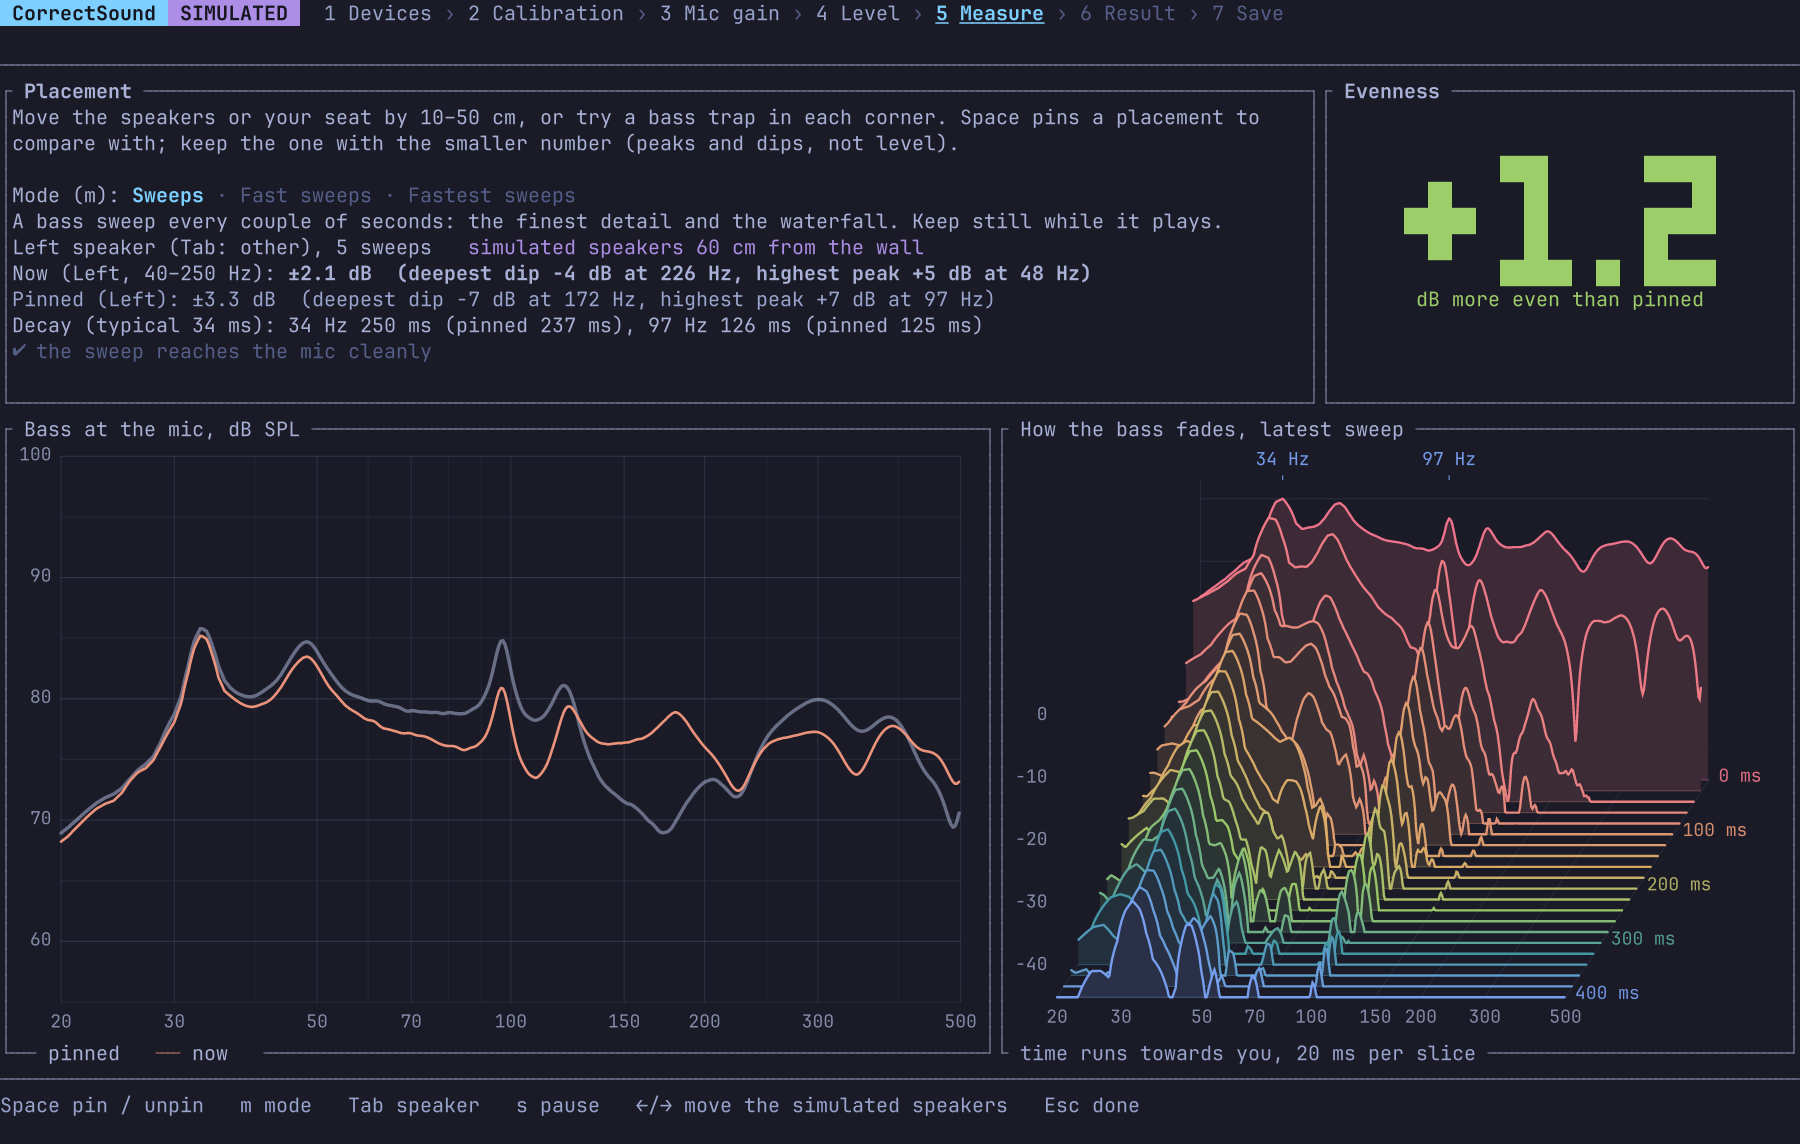
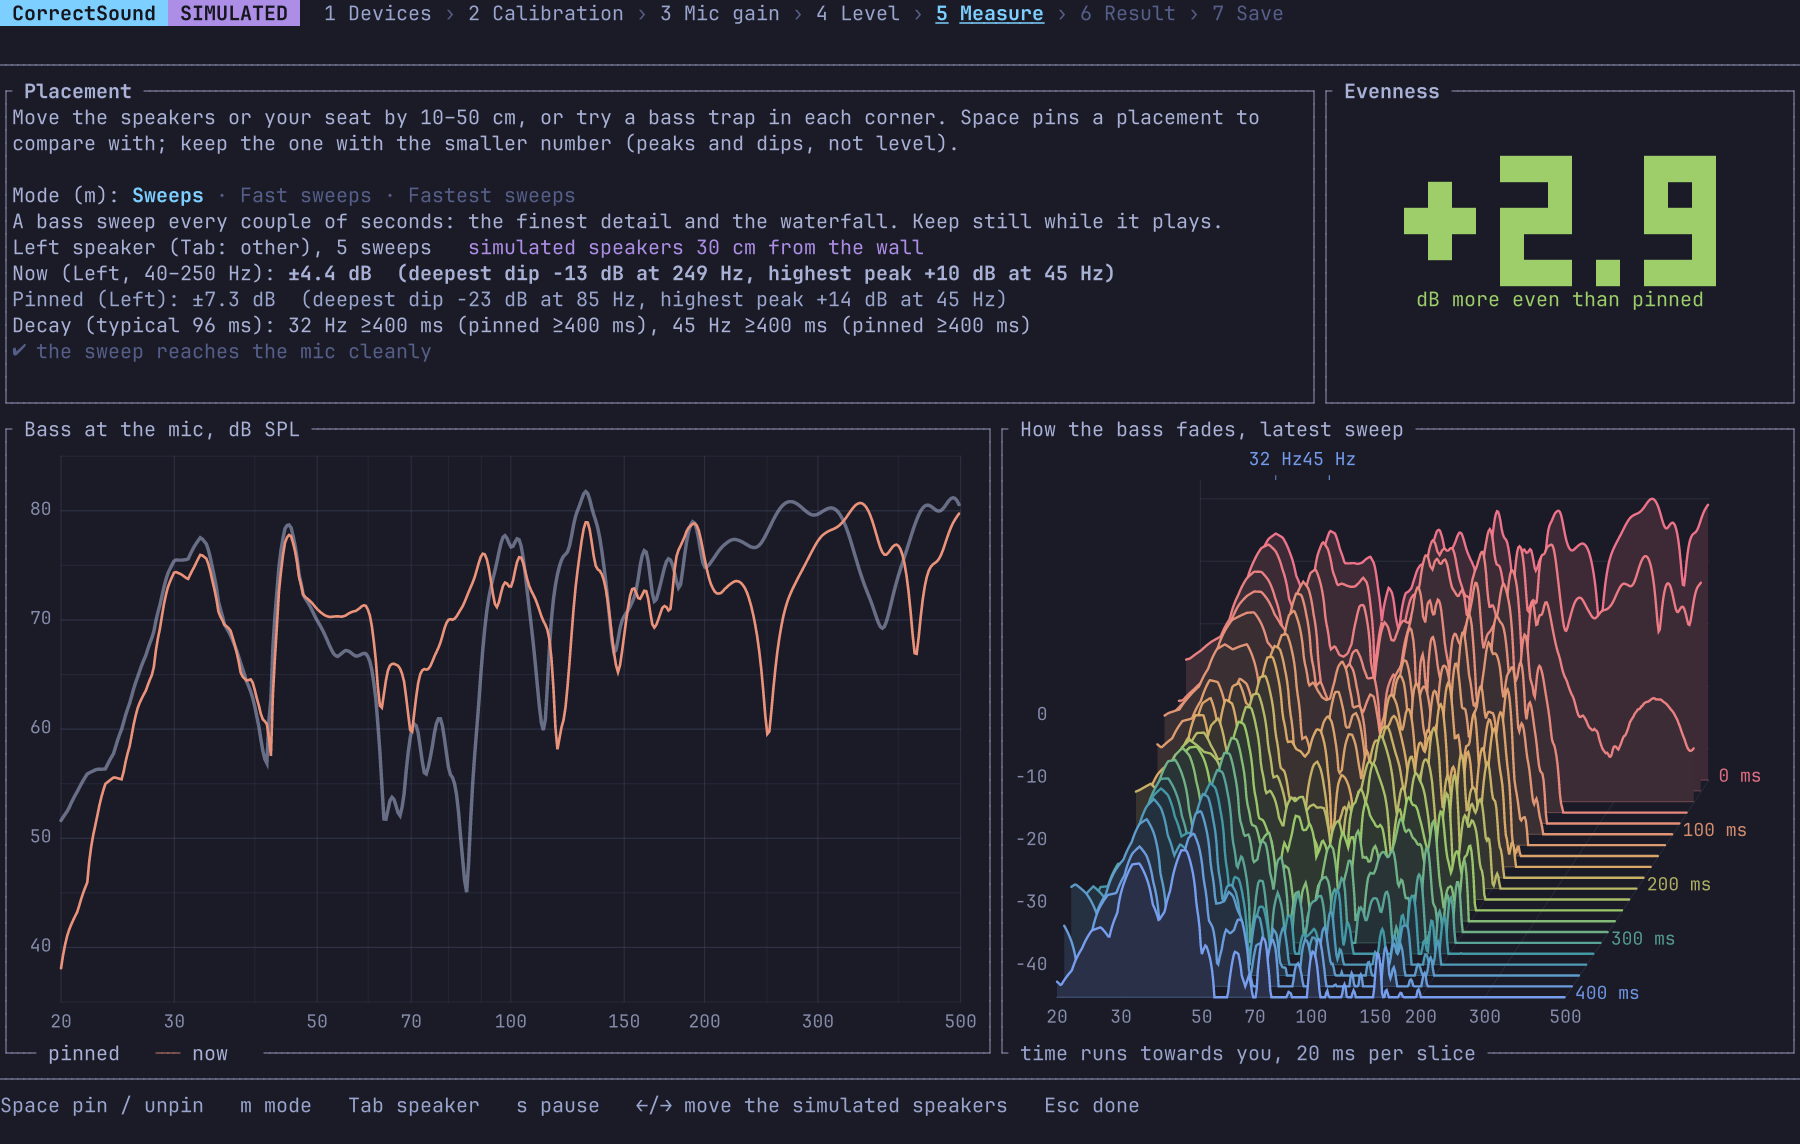
--simulate in the living room; verify at the first mic position
The simulator now runs in a room of known size by default (5.64 x 5.24 m,
the speakers in its right-hand corner), and the website's screenshots come
from it. Its placement story is the room's own: the speakers pinned 80 cm
from the wall behind them, where the reflection cancels 85 Hz by 23 dB,
then moved to 30 cm, 2.9 dB more even. Captions and image descriptions say
what the new screenshots show.

Verification compared one mic position with the average of all of them,
which in a real room differs by about a dB and flagged spots that had not
changed. It now asks for the mic back at the first position and compares
with the EQ's prediction for that spot: 0.2 dB RMS in the simulator.

The fastest sweeps read a long-ringing room's narrowest resonances in
2.9 Hz steps, about 1.5 dB off a full sweep; the test now judges them
against their own accuracy. IDEAS.md: close pairs of standing waves
measure as ringing too long.

diff --git a/docs/index.html b/docs/index.html
@@ -451,7 +451,7 @@ footer { border-top: 1px solid var(--line); padding: 40px 0 60px; color: var(--m
           <h3>Level</h3>
           <p>Keep quiet for a few seconds while CorrectSound listens to your room. You see the background noise in the bass, the mids and the highs, live, and the level the measurement needs to stay 30 dB above it in every octave. Traffic and ventilation rumble in the bass, so that is usually what decides. A quiet room is measured at a comfortable 60 dB; a noisy one asks for up to 80, or for a quieter moment. Then press Enter: pink noise plays from one speaker and you turn the amplifier until the meter shows that level. Louder is fine, up to a comfortable 85 dB: the sweeps only gain margin. Above 95 dB it stops by itself.</p>
         </div>
-        <figure class="shot zoom"><img loading="lazy" src="img/4a-listening.png" alt="Listening to the room: background noise in bass, mids and highs, and a suggested measurement level of 68 dB SPL"></figure>
+        <figure class="shot zoom"><img loading="lazy" src="img/4a-listening.png" alt="Listening to the room: background noise in bass, mids and highs, and a suggested measurement level of 70 dB SPL"></figure>
       </div>
       <div class="step">
         <div class="text">
@@ -473,9 +473,9 @@ footer { border-top: 1px solid var(--line); padding: 40px 0 60px; color: var(--m
         <div class="text">
           <div class="num">7</div>
           <h3>Save, apply, verify</h3>
-          <p><kbd>a</kbd> backs up your EasyEffects settings, installs the preset as <code>CoSo-001-DDMMYYYY</code>, loads it and makes it load automatically for that output. <kbd>v</kbd> plays the sweeps again, this time through EasyEffects, and compares the result with the prediction: the purple line should sit on the blue one.</p>
+          <p><kbd>a</kbd> backs up your EasyEffects settings, installs the preset as <code>CoSo-001-DDMMYYYY</code>, loads it and makes it load automatically for that output. <kbd>v</kbd> plays the sweeps again, this time through EasyEffects, and compares the result with the prediction: the purple line should sit on the blue one. If you measured several mic positions, put the mic back at the first one: the comparison is made for that spot.</p>
         </div>
-        <figure class="shot zoom"><img loading="lazy" src="img/7-saved-verified.png" alt="Save screen showing the preset loaded and the verification matching within 0.1 dB"></figure>
+        <figure class="shot zoom"><img loading="lazy" src="img/7-saved-verified.png" alt="Save screen showing the preset loaded and the verification matching the prediction within 0.2 dB"></figure>
       </div>
     </div>
   </div>
@@ -565,11 +565,11 @@ footer { border-top: 1px solid var(--line); padding: 40px 0 60px; color: var(--m
         </div>
         <div>
           <figure class="shot zoom"><img loading="lazy" src="img/5b-placement.png" alt="Placement screen in sweeps mode: the bass at two speaker positions, and a waterfall of how the bass fades"></figure>
-          <figcaption>Sweeps mode, on the simulator. The simulated speakers were pinned 40 cm from the wall behind them (dashed): its reflection cancels a band around 170 Hz. Moved to 60 cm, the dip shrinks and the score improves by 1.1 dB. No equalizer can do that. The waterfall shows how the latest sweep's bass fades.</figcaption>
+          <figcaption>Sweeps mode, in the simulator's living room (5.64 × 5.24 m, like the room CorrectSound was first tried in). Pinned (grey) with the speakers 80 cm from the wall behind them: the reflection off that wall cancels a band around 85 Hz, 23 dB deep. Moved to 30 cm, the dip is gone and the bass is 2.9 dB more even. No equalizer can do that. The waterfall shows how the latest sweep's bass fades: the 32 and 45 Hz standing waves ring longest.</figcaption>
           <figure class="shot zoom" style="margin-top:22px"><img loading="lazy" src="img/5c-fastest.png" alt="Placement screen in fastest-sweeps mode: the bass from a short looping sweep, against the pinned sweep"></figure>
-          <figcaption>Fastest sweeps, same room: a third-of-a-second sweep in a loop, the curve updated ten times a second. In the simulator it matches the single sweep at the same position within 0.2 dB.</figcaption>
-          <figure class="shot zoom" style="margin-top:22px"><img loading="lazy" src="img/5d-fast.png" alt="Placement screen in fast-sweeps mode: a worse placement, and a big number saying it is less even than pinned"></figure>
-          <figcaption>Fast sweeps, with the speakers moved on to 90 cm: worse again, and the big number turns red.</figcaption>
+          <figcaption>Fastest sweeps, same room, speakers at 30 cm: a third-of-a-second sweep in a loop, the curve updated ten times a second. It reads the bass in 2.9 Hz steps, so in a room whose lowest notes ring this long it lands within about 1.5 dB of a full sweep at the same spot: plenty to tell placements apart, which differ by several dB.</figcaption>
+          <figure class="shot zoom" style="margin-top:22px"><img loading="lazy" src="img/5d-fast.png" alt="Placement screen in fast-sweeps mode: the speakers back at 80 cm, and a big number in red saying the bass is less even than at the pinned 30 cm"></figure>
+          <figcaption>Fast sweeps, with 30 cm pinned and the speakers moved back out to 80 cm: the 85 Hz dip returns and the big number turns red.</figcaption>
         </div>
       </div>
     </div>
@@ -577,12 +577,12 @@ footer { border-top: 1px solid var(--line); padding: 40px 0 60px; color: var(--m
     <div id="ultrawide" style="scroll-margin-top:80px;margin-top:54px">
       <h3 style="margin:0">Made for wide screens</h3>
       <p>On an ultrawide monitor the charts use the whole width: the bass and the waterfall side by side, with room for every peak and dip. Charts are pixel images in Ghostty and kitty, and one image can span at most 297 columns of text, so on a terminal wider than that CorrectSound sends each chart in tiles that join seamlessly. Narrow terminals work too: the big number makes way for the text below 110 columns, and terminals without images get braille charts.</p>
-      <figure class="shot zoom" style="margin-top:18px"><img loading="lazy" src="img/5e-ultrawide.png" alt="Placement screen on a 320-column terminal: the bass against the pinned curve, the waterfall beside it, and a big number saying 1.2 dB more even than pinned"></figure>
-      <figcaption>Fast sweeps on a 320 × 62 terminal, the size of a 5120 × 2160 monitor, on the simulator: speakers moved from 40 to 60 cm from the wall, 1.2 dB more even than pinned.</figcaption>
+      <figure class="shot zoom" style="margin-top:18px"><img loading="lazy" src="img/5e-ultrawide.png" alt="Placement screen on a 320-column terminal: the bass against the pinned curve, the waterfall beside it, and a big number saying 2.9 dB more even than pinned"></figure>
+      <figcaption>Fast sweeps on a 320 × 62 terminal, the size of a 5120 × 2160 monitor, on the simulator: speakers moved from 80 to 30 cm from the wall, 2.9 dB more even than pinned.</figcaption>
     </div>
 
     <div class="two" style="margin-top:54px">
-      <figure class="shot zoom"><img loading="lazy" src="img/6c-decay.png" alt="Waterfall of the bass decay, with 97 Hz marked as ringing longest"></figure>
+      <figure class="shot zoom"><img loading="lazy" src="img/6c-decay.png" alt="Waterfall of the bass decay, with 32 Hz marked as ringing longest, and the room's lowest standing waves fading over 1.5 to 2 seconds"></figure>
       <div>
         <h3 style="margin-top:0">Decay waterfall <kbd>w</kbd></h3>
         <p>How each bass note fades after the sound stops. The back slice is the sound as it starts; each slice in front is 20 ms later. Most notes vanish within a few slices; a resonance stands out as a ridge that runs all the way to the front.</p>
@@ -612,7 +612,7 @@ footer { border-top: 1px solid var(--line); padding: 40px 0 60px; color: var(--m
       </div>
       <div>
         <figure class="shot zoom"><img loading="lazy" src="img/6f-room.png" alt="Room screen: the room from above with the speakers and the seat, a standing wave's loud and silent places, the measured bass against the room model, and what it means"></figure>
-        <figcaption>On the simulator: the room guessed from the measurement, the 33 Hz standing wave shown, and the model's bass at the seat against the measurement.</figcaption>
+        <figcaption>On the simulator's living room, 5.64 × 5.24 m with the speakers in its right-hand corner: guessed from the measurement alone as 5.65 × 5.21 m, right-hand corner, the model within 1.1 dB of the measured bass. The plan shows the standing wave that rings longest, at 69 Hz, red and blue where it is loud.</figcaption>
         <figure class="shot zoom" style="margin-top:22px"><img loading="lazy" src="img/6g-room-seats.png" alt="Room screen in seat-map view: green where the bass would be even, red where it would be uneven"></figure>
         <figcaption>Where to sit (<kbd>v</kbd>): each spot coloured by how even the bass below 80 Hz would be if you sat there, with the speakers where they are. Green is even, red boomy or thin; the ring marks the most even seat within 60 cm.</figcaption>
       </div>
@@ -958,7 +958,7 @@ correctsound review          # open the newest again, re-analysed, nothing playe
 <footer>
   <div class="wrap">
     <p><b style="color:var(--fg)">CorrectSound</b> · <a href="https://github.com/arturzielazny/correctsound">GitHub</a> · <a href="https://github.com/arturzielazny/correctsound/discussions">Discussions</a> · <a href="https://github.com/arturzielazny/correctsound/blob/main/LICENSE">MIT licence</a> · <a href="https://github.com/arturzielazny/correctsound/blob/main/CONTRIBUTING.md">Contributing</a></p>
-    <p>Written by Claude (Anthropic), an AI coding agent, and tested by a human on real speakers. Screenshots come from the built-in simulator, generated by <code>cargo run --example screenshots</code>.</p>
+    <p>Written by Claude (Anthropic), an AI coding agent, and tested by a human on real speakers. Screenshots come from the built-in simulator, a living room of 5.64 × 5.24 m with the room's standing waves and wall reflections worked out from where the speakers and the mic are, generated by <code>cargo run --example screenshots</code>.</p>
   </div>
 </footer>
 

diff --git a/src/app/save.rs b/src/app/save.rs
@@ -115,7 +115,13 @@ impl App {
                         .into(),
                 );
             }
-            KeyCode::Char('v') if self.save.applied.is_some() => self.start_sweeps(Purpose::Verify),
+            KeyCode::Char('v') if self.save.applied.is_some() => {
+                // The simulated mic goes back to the first position, as the screen asks.
+                if let Some(state) = self.sim_state() {
+                    state.lock().expect("sim state lock poisoned").mic_position = 0;
+                }
+                self.start_sweeps(Purpose::Verify);
+            }
             KeyCode::Char('v') => {
                 let host = self.eq_host_name();
                 self.message = Some(if self.can_apply() {
@@ -173,11 +179,13 @@ impl App {
                 continue;
             };
             let ch = &design.channels[c];
+            let expected =
+                expected_at_first_position(&ch.predicted, self.measure.responses[c].as_ref());
             let diffs: Vec<(f64, f64)> = ch
                 .predicted
                 .freqs
                 .iter()
-                .zip(&ch.predicted.db)
+                .zip(&expected)
                 .zip(&v.fit.db)
                 .filter(|((f, _), _)| ch.target.in_range(**f))
                 .map(|((&f, p), m)| (f, m - p))
@@ -205,5 +213,30 @@ impl App {
     #[must_use]
     pub fn verify_responses(&self) -> &[Option<Responses>; 2] {
         &self.measure.verify
+    }
+}
+
+/// What verification should measure, dB per frequency of `predicted`: with several mic
+/// positions, the first position's own response with the EQ's effect added (the screen asks
+/// for the mic back there), since the prediction itself is their average and one spot
+/// differs from it by the room; with one position, the prediction.
+fn expected_at_first_position(
+    predicted: &crate::dsp::spectrum::Response,
+    measured: Option<&crate::analysis::Responses>,
+) -> Vec<f64> {
+    let first = measured.and_then(|r| r.positions.first().map(|p| (p, &r.fit)));
+    match first {
+        Some((first, average))
+            if first.freqs == predicted.freqs && average.freqs == predicted.freqs =>
+        {
+            predicted
+                .db
+                .iter()
+                .zip(&average.db)
+                .zip(&first.db)
+                .map(|((p, a), f)| f + (p - a))
+                .collect()
+        }
+        _ => predicted.db.clone(),
     }
 }

diff --git a/examples/screenshots.rs b/examples/screenshots.rs
@@ -81,15 +81,8 @@ fn main() {
     tick_until(&mut app, |a| {
         a.placement.as_ref().is_some_and(|p| p.count >= 1)
     });
-    // Too close to the wall: pin it, then move back out.
-    for _ in 0..4 {
-        press(&mut app, KeyCode::Left);
-    }
-    let seen = app.placement.as_ref().map_or(0, |p| p.count);
-    tick_until(&mut app, |a| {
-        a.placement.as_ref().is_some_and(|p| p.count >= seen + 2)
-    });
-    press(&mut app, KeyCode::Char(' '));
+    // In the simulated living room the speakers stand about 80 cm from the wall behind
+    // them, where the left one's bass is least even: pin that, then move them to 30 cm.
     for _ in 0..4 {
         press(&mut app, KeyCode::Right);
     }
@@ -97,10 +90,18 @@ fn main() {
     tick_until(&mut app, |a| {
         a.placement.as_ref().is_some_and(|p| p.count >= seen + 2)
     });
+    press(&mut app, KeyCode::Char(' '));
+    for _ in 0..10 {
+        press(&mut app, KeyCode::Left);
+    }
+    let seen = app.placement.as_ref().map_or(0, |p| p.count);
+    tick_until(&mut app, |a| {
+        a.placement.as_ref().is_some_and(|p| p.count >= seen + 2)
+    });
     app.message = None;
     shots.take(&app, "5b-placement");
-    // Fast sweeps: a sweep looping without pauses, on an ultrawide monitor too; then a worse
-    // placement, so the big number turns red.
+    // Fast sweeps: a sweep looping without pauses, on an ultrawide monitor too; then the
+    // good placement pinned and the speakers moved back out, so the big number turns red.
     press(&mut app, KeyCode::Char('m'));
     let seen = app.placement.as_ref().map_or(0, |p| p.count);
     tick_until(&mut app, |a| {
@@ -108,7 +109,8 @@ fn main() {
     });
     app.message = None;
     shots.take_sized(&app, "5e-ultrawide", WIDE);
-    for _ in 0..6 {
+    press(&mut app, KeyCode::Char(' '));
+    for _ in 0..10 {
         press(&mut app, KeyCode::Right);
     }
     let seen = app.placement.as_ref().map_or(0, |p| p.count);
@@ -117,7 +119,7 @@ fn main() {
     });
     app.message = None;
     shots.take(&app, "5d-fast");
-    for _ in 0..6 {
+    for _ in 0..10 {
         press(&mut app, KeyCode::Left);
     }
     // Fastest sweeps: the same comparison, from a short sweep looping, ten times a second.

diff --git a/tests/wizard.rs b/tests/wizard.rs
@@ -297,7 +297,10 @@ fn full_wizard_on_simulator() {
     eprintln!("fastest at 1 m vs sweep at 1 m {same:.2} dB, vs sweep at 0.6 m {other:.2} dB");
     assert!(same < other / 2.0, "{same} vs {other}");
     // Moving the wall while the sweep loops: the dip follows within a few updates (0.1 s of
-    // sound each, while the app keeps up).
+    // sound each, while the app keeps up). "Follows" means as close to the sweep there as
+    // this mode gets anywhere: its 2.9 Hz steps read a room's narrowest resonances a little
+    // off.
+    let accuracy = same + 0.5;
     app.tick();
     for _ in 0..8 {
         press(&mut app, KeyCode::Left);
@@ -311,7 +314,7 @@ fn full_wizard_on_simulator() {
             a.placement
                 .as_ref()
                 .and_then(|p| p.latest.as_ref())
-                .is_some_and(|r| shape_difference(r, &pinned) < 1.0)
+                .is_some_and(|r| shape_difference(r, &pinned) < accuracy)
         },
     );
     let updates = count(&app) - moved_at;
@@ -517,10 +520,13 @@ fn full_wizard_on_simulator() {
 
     press(&mut app, KeyCode::Char('a'));
     assert!(app.save.applied.is_some(), "{:?}", app.save.error);
+    assert!(render(&app).contains("put the mic back where the first measurement was"));
     press(&mut app, KeyCode::Char('v'));
     tick_until(&mut app, "verification", Duration::from_secs(20), |a| {
         a.save.verify.is_some()
     });
+    // Verified at the first mic position (the screen asks for the mic there), against what
+    // the EQ predicts for that position: they match closely.
     let v = app.save.verify.expect("verified");
     assert!(
         v.iter().all(|r| r.rms_db < 0.5 && r.worst_db.abs() < 1.5),

diff --git a/src/app/mod.rs b/src/app/mod.rs
@@ -48,7 +48,8 @@ pub struct Options {
     pub sink: Option<String>,
     /// Open this saved session for review instead of measuring.
     pub review: Option<PathBuf>,
-    /// The simulated room and speakers, when simulating ([`SimConfig::default`] if not set).
+    /// The simulated room and speakers, when simulating ([`SimConfig::living_room`] if not
+    /// set).
     pub sim_config: Option<SimConfig>,
     /// The simulated devices as they start (which outputs, whether the mic is plugged in).
     pub sim_state: Option<SimState>,
@@ -228,7 +229,10 @@ impl App {
             let state = Arc::new(Mutex::new(options.sim_state.clone().unwrap_or_default()));
             let config = SimConfig {
                 speed: 4.0,
-                ..options.sim_config.clone().unwrap_or_default()
+                ..options
+                    .sim_config
+                    .clone()
+                    .unwrap_or_else(SimConfig::living_room)
             };
             (
                 Env::Sim {

diff --git a/src/ui/save.rs b/src/ui/save.rs
@@ -55,6 +55,12 @@ pub(super) fn save(frame: &mut Frame<'_>, area: Rect, app: &App, gfx: &mut Graph
                     p * 100.0
                 ))),
                 (Some(v), None) => verify_lines(v, host, &mut lines),
+                (None, None) if app.measure.positions[0].len() > 1 => {
+                    lines.push(Line::from(format!(
+                        "Press v to verify: put the mic back where the first measurement was, \
+                         then the sweeps play again, this time through {host}."
+                    )));
+                }
                 (None, None) => lines.push(Line::from(format!(
                     "Press v to verify: the sweeps play again, this time through {host}. Don't move the mic."
                 ))),

diff --git a/src/ui/info.rs b/src/ui/info.rs
@@ -68,7 +68,8 @@ fn simple_lines() -> Vec<Line<'static>> {
         p(
             "7 Save: writes the files, loads them into the EQ program as a preset (it also loads \
            automatically from then on), and can play the sweeps again through it to verify the \
-           result.",
+           result. With several mic positions, put the mic back at the first one first: the \
+           comparison is made for that spot, since one spot differs from their average.",
         ),
         gap(),
         h("Placement and room treatment (p on the measure step)"),

diff --git a/IDEAS.md b/IDEAS.md
@@ -94,6 +94,10 @@ is that every port adds a module under `src/platform/` and leaves the rest alone
   as a second clue to where the speakers are, independent of the mic position.
 - Fit the dimensions themselves (not only candidates from the resonances) and the speakers'
   acoustic centres, which sit a little in front of where a tape measure ends.
+- Close pairs of standing waves read as ringing too long: in the simulated living room the
+  waves at 69.0 and 72.2 Hz, both set to ring 0.5 s, measure about 2.2 s, as their beating
+  slows the decay curve. Fit two decays (or the pair's envelope) where two waves lie within
+  their own bandwidths of each other. The real room's 62/69 Hz readings may be the same.
 - Fold the room model into the EQ: the 0.5 s analysis window understates a mode that rings
   1.7 s by 2–3 dB (measured on the simulator), which the model can correct.
 
